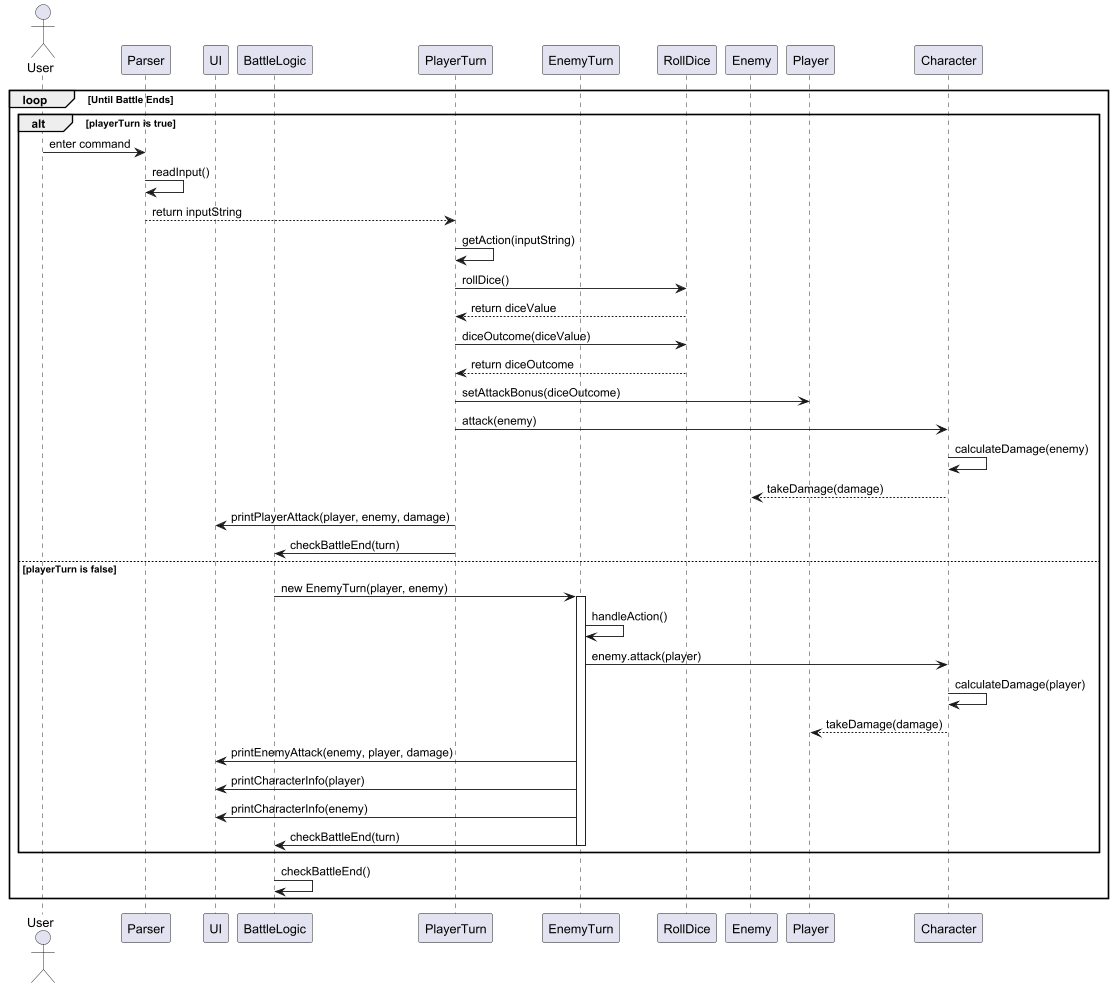
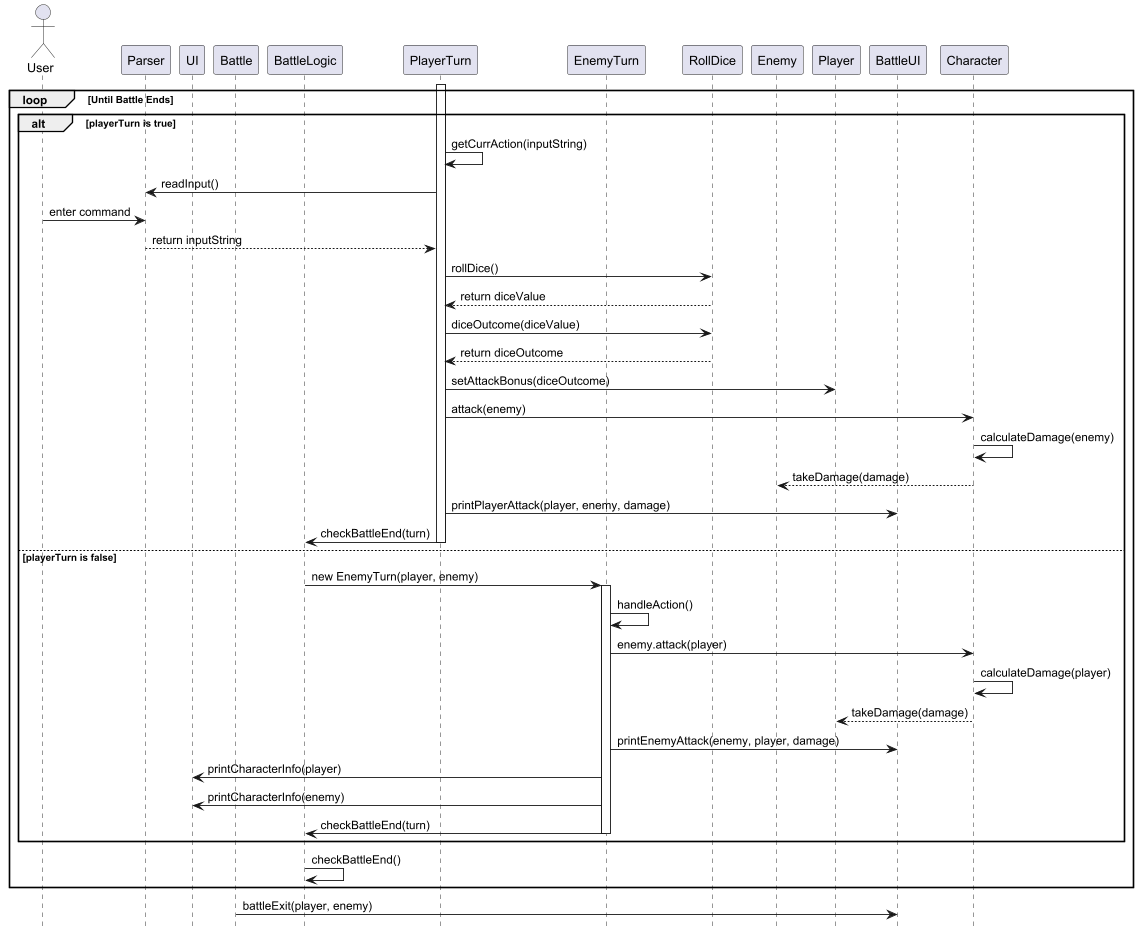
update dg and diagram according to member's comment
fix attack and defned diagram to correctly reflect the parser and player turn call
deleted storage class diagram
updated dg components detail

diff --git a/docs/DeveloperGuide.md b/docs/DeveloperGuide.md
@@ -1,6 +1,5 @@
 # RollaDie Developer Guide  
 
-
 ## Acknowledgement
 This project was made possible with the help of the listed tools below:
 - Junit (Provides a robust testing framework)
@@ -34,7 +33,13 @@ git clone https://github.com/AY2425S2-CS2113-T13-4/tp.git
 
 ## Design
 
-## Architecture   
+## Architecture 
+diagram          
+
+The Architecture diagram given above explain the high-level design of the application.      
+
+
+
 ### Class Structure
 ```
 +---main
@@ -82,17 +87,29 @@ git clone https://github.com/AY2425S2-CS2113-T13-4/tp.git
 {To be updated}
 
 ## Component Details {To be Updated}
+
 ### 1. Main component
+Main (consisting of classes `RollaDie` and `MainMenu`) is in charge of the app launch and shut down.     
+- At app launch, it initializes the other components in the proper sequence and establishes their connections.       
+- At shut down, it deactivates the other components and invokes cleanup methods as needed.  
+
+The bulk of the app’s work is done by the following components:
+- `UI`: Designed for enhancing user interactions such as printing messages to the terminal.
+- `Parser`: Parse and process user input from the terminal.
+- `Game`: Manipulate major gameplay mechanics.
+- `Storage`: Manages saving and loading data to and from the hard disk.        
+- `Exception`: Handle exceptions.
+
 ### 2. UI Component
-### 3. Logic Component
-### 4. Model Component
+### 3. Parser Component
+### 4. Game Component
+
 ### 5. Storage Component
 The Storage Component is responsible for saving and loading game progress.
 It reads and writes game data to a text file (savefile.txt),
 ensuring that players can resume their game after closing the application.         
 
 The Storage class includes the following functionalities:
-
 1. Save the game:
 
 - The `saveGame(Player, Event, Queue<Event>)` method writes player stats, the current event,
@@ -111,7 +128,7 @@ and upcoming events to a file.
 - `parseEventFromText()` reconstructs different game events, such as battles, from saved data.
 
 
-### 6. Utility Component
+### 6. Exception Component
 - Includes helper classes that support other components.
 - Exceptions: Contains `RolladieException.java` for handling custom errors.
 - Parsers & Helpers: Includes Parser.java for reading user input.
@@ -152,9 +169,6 @@ which calculates the damage and applies it to the enemy.
 7. The damage is calculated and applied to the player, followed by displaying the attack message and updating character info via UI.
 The turn ends with BattleLogic checking if the battle should continue.
 8. This loop repeats until the battle ends.
-
-
-
 
 **Sequence Diagram**         
      
@@ -282,6 +296,7 @@ rolling dice, battling enemies, and making crucial choices.
 
 ## Testing        
 {To be Updated}
+{Give instructions on how to do a manual product testing e.g., how to load sample data to be used for testing}
 ### Structure
 Tests are organized according to the package structure:
 
@@ -309,7 +324,6 @@ Tests are organized according to the package structure:
 \---duke
 
 ```
-{Give instructions on how to do a manual product testing e.g., how to load sample data to be used for testing}
 
 
 ## Glossary
